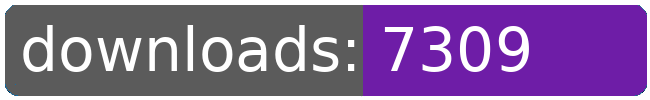
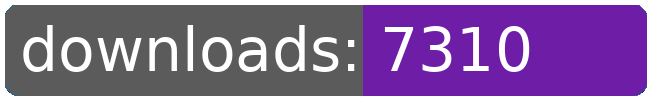
dl log written

Changed region(s): [[0.7077, 0.24, 0.8308, 0.72]]

diff --git a/README.md b/README.md
@@ -21,8 +21,8 @@
 		<td>7255</td>
 		<td>7274</td>
 		<td>7292</td>
-		<td>7309</td>
-		<td>+ 17</td>
+		<td>7310</td>
+		<td>+ 18</td>
 	</tr>
 	<tr>
 		<td>aberrant.kahet.outfitter</td>
@@ -274,8 +274,8 @@
 		<td></td>
 		<td></td>
 		<td></td>
-		<td>106087</td>
-		<td>306</td>
+		<td>106088</td>
+		<td>307</td>
 	</tr>
 </table>
 </sub></sup>
@@ -300,8 +300,8 @@
 		<td>7255</td>
 		<td>7274</td>
 		<td>7292</td>
-		<td>7309</td>
-		<td>+ 17</td>
+		<td>7310</td>
+		<td>+ 18</td>
 	</tr>
 	<tr>
 		<td>aberrant.kahet.outfitter</td>
@@ -553,8 +553,8 @@
 		<td></td>
 		<td></td>
 		<td></td>
-		<td>106087</td>
-		<td>306</td>
+		<td>106088</td>
+		<td>307</td>
 	</tr>
 </table>
 </sub></sup>
